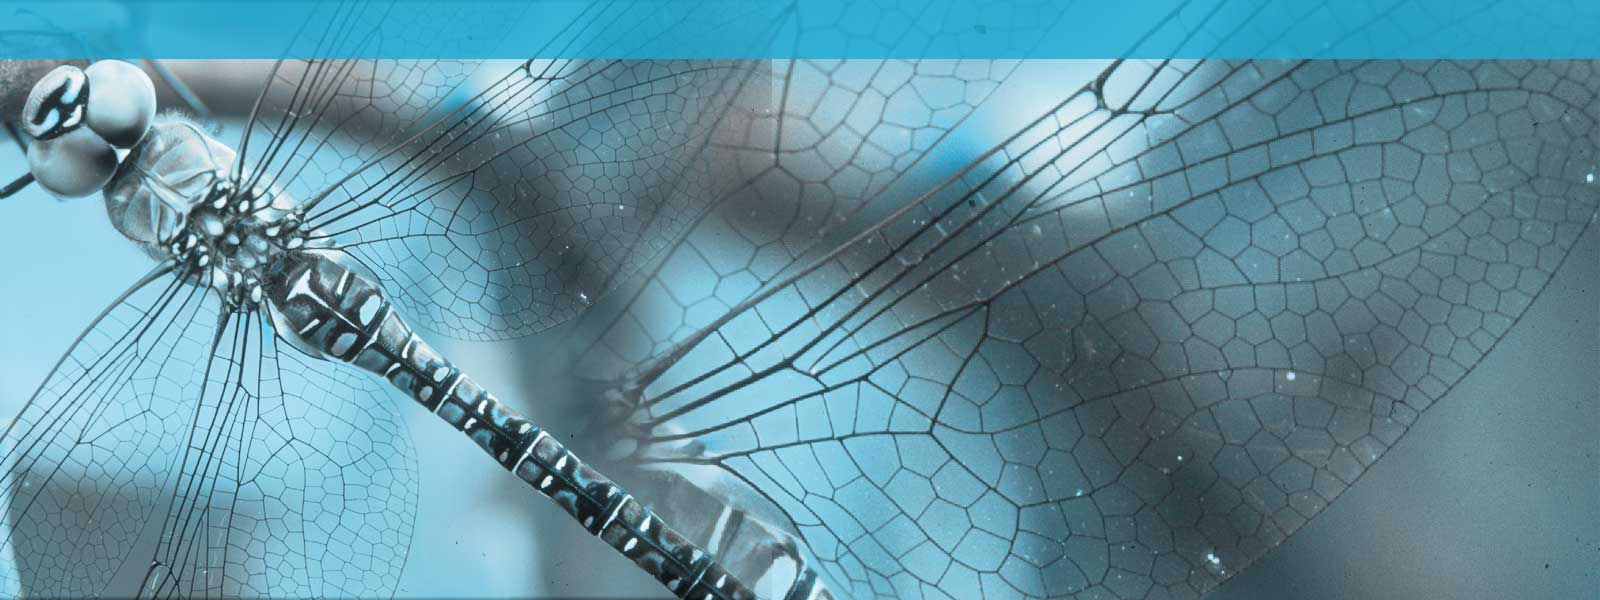
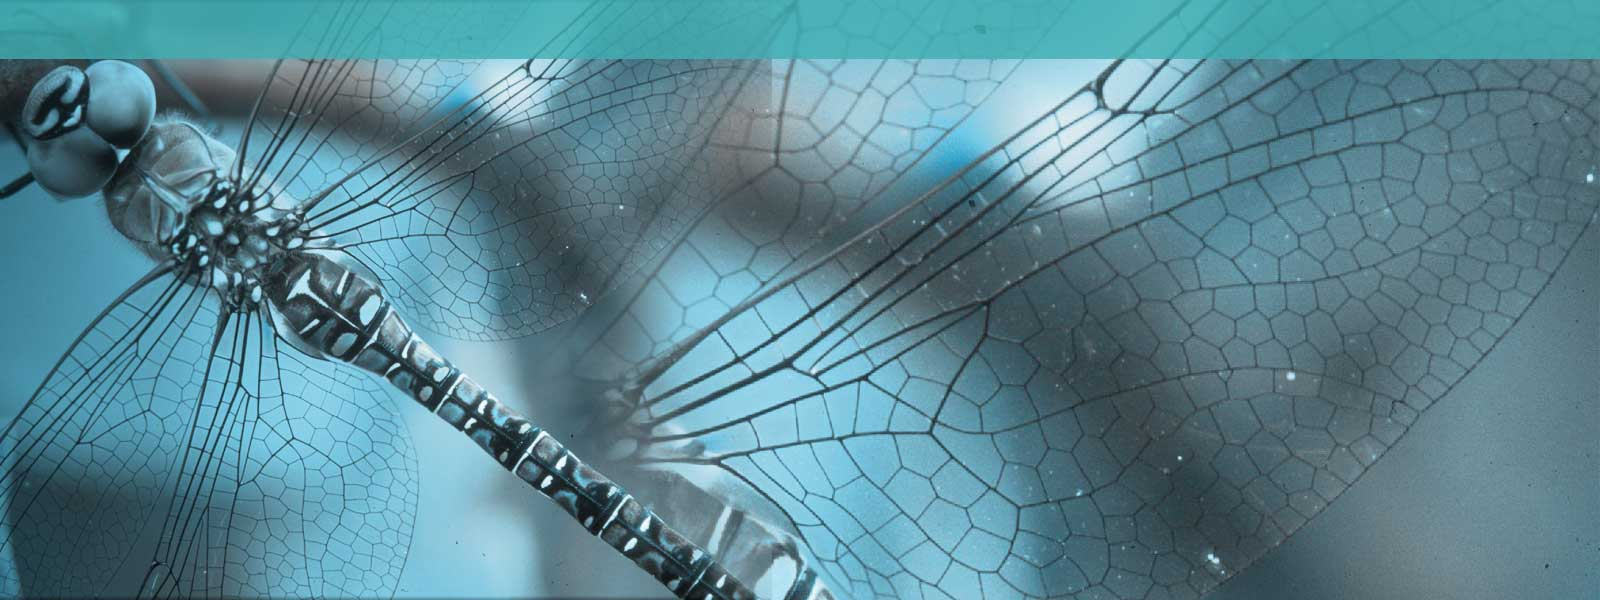
Added styles for LNH
git-svn-id: https://scm.mmbase.org/mmbase/trunk@20444 91430c5f-d668-0410-9e7d-dd663366dcfd

Changed region(s): [[0.0, 0.0, 1.0, 1.0]]

diff --git a/contributions/natmm/templates/nmintra/css/lnh_libelle.css b/contributions/natmm/templates/nmintra/css/lnh_libelle.css
@@ -1,7 +1,7 @@
 BODY {
-   COLOR: #3FAFB3; SCROLLBAR-SHADOW-COLOR: #8CD4DD; SCROLLBAR-3DLIGHT-COLOR: #8CD4DD; SCROLLBAR-DARKSHADOW-COLOR: #8CD4DD; SCROLLBAR-BASE-COLOR: #8CD4DD; BACKGROUND-COLOR: #8CD4DD
+   COLOR: #3FAFB3; SCROLLBAR-SHADOW-COLOR: #9DDAEC; SCROLLBAR-3DLIGHT-COLOR: #9DDAEC; SCROLLBAR-DARKSHADOW-COLOR: #9DDAEC; SCROLLBAR-BASE-COLOR: #9DDAEC; BACKGROUND-COLOR: #9DDAEC
 }
 .dark {	  COLOR: #3FAFB3 }
-INPUT {	  BACKGROUND-COLOR: #8CD4DD }
-TEXTAREA { BACKGROUND-COLOR: #8CD4DD }
-SELECT {	  BACKGROUND-COLOR: #8CD4DD }
+INPUT {	  BACKGROUND-COLOR: #9DDAEC }
+TEXTAREA { BACKGROUND-COLOR: #9DDAEC }
+SELECT {	  BACKGROUND-COLOR: #9DDAEC }

diff --git a/contributions/natmm/templates/nmintra/css/lnh_libellegeel.css b/contributions/natmm/templates/nmintra/css/lnh_libellegeel.css
@@ -1,0 +1,7 @@
+BODY {
+   COLOR: #A17C1B; SCROLLBAR-SHADOW-COLOR: #EDC047; SCROLLBAR-3DLIGHT-COLOR: #EDC047; SCROLLBAR-DARKSHADOW-COLOR: #EDC047; SCROLLBAR-BASE-COLOR: #EDC047; BACKGROUND-COLOR: #EDC047
+}
+.dark {	  COLOR: #A17C1B }
+INPUT {	  BACKGROUND-COLOR: #EDC047 }
+TEXTAREA { BACKGROUND-COLOR: #EDC047 }
+SELECT {	  BACKGROUND-COLOR: #EDC047 }

diff --git a/contributions/natmm/templates/nmintra/css/lnh_mieren.css b/contributions/natmm/templates/nmintra/css/lnh_mieren.css
@@ -1,0 +1,7 @@
+BODY {
+   COLOR: #76A043; SCROLLBAR-SHADOW-COLOR: #A6C185; SCROLLBAR-3DLIGHT-COLOR: #A6C185; SCROLLBAR-DARKSHADOW-COLOR: #A6C185; SCROLLBAR-BASE-COLOR: #A6C185; BACKGROUND-COLOR: #A6C185
+}
+.dark {	  COLOR: #76A043 }
+INPUT {	  BACKGROUND-COLOR: #A6C185 }
+TEXTAREA { BACKGROUND-COLOR: #A6C185 }
+SELECT {	  BACKGROUND-COLOR: #A6C185 }
